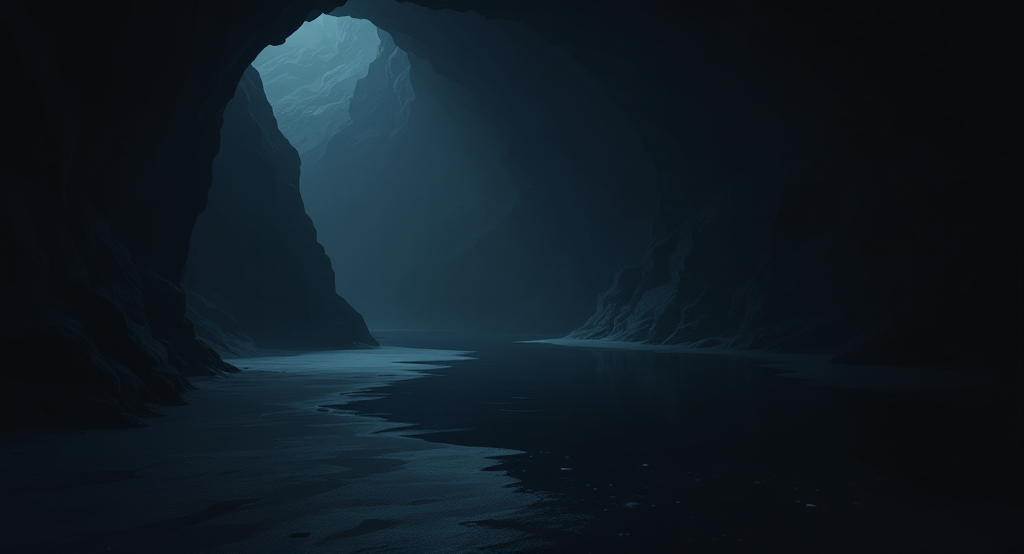
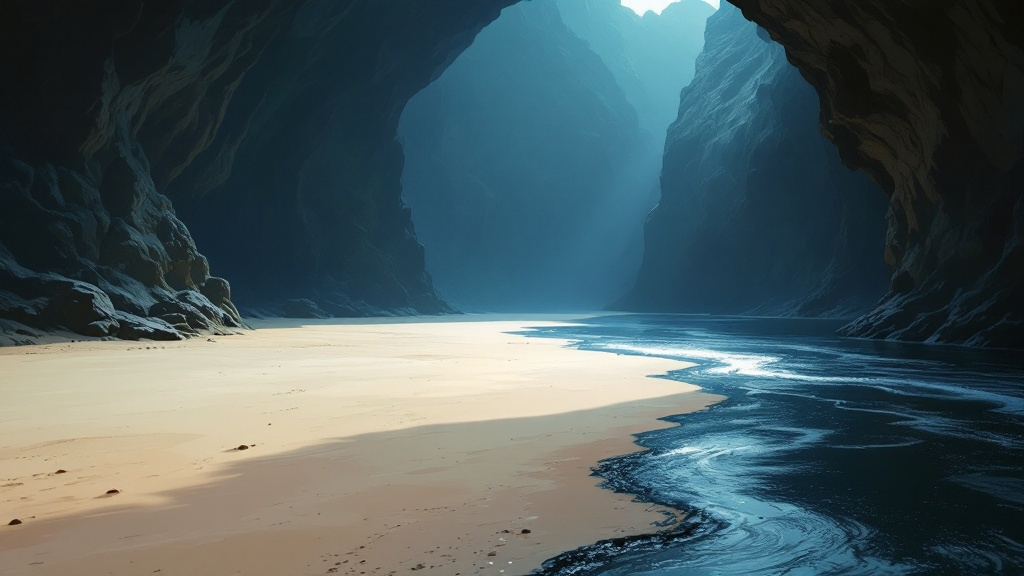
fix: Middle Beach repainted legible; room-art URLs versioned
Room 7 read as an empty black cavern — the beach and river were
technically present but crushed into darkness. Hand-shot with correct
geography (sand west toward the tunnel, swift river east running
south) and a readable phosphorescent center. Room background URLs now
carry ?a=2 so re-authored paintings bust the week-long media cache —
bump on future room-art revisions.

diff --git a/server/routes/game.js b/server/routes/game.js
@@ -977,7 +977,7 @@ function roomResponse({ adventure, run, character, text = null, prefix = null, e
     events,
     text: prefix ? `${prefix}\n\n${body}` : body,
     choices: choicesForRun(adventure, run, character),
-    state: { phase: 'adventure', locationTitle: room?.name ?? adventure?.adventure?.name ?? 'Adventure', background: `scenes/${adventure?.adventure?.id}/room-${room?.room_number}.png`, character, adventureRun: run, room, entities, items: withReadState(items, run), combat: combatStateFor({ adventure, run, character }), map: mapFor(adventure, run, character) },
+    state: { phase: 'adventure', locationTitle: room?.name ?? adventure?.adventure?.name ?? 'Adventure', background: `scenes/${adventure?.adventure?.id}/room-${room?.room_number}.png?a=2`, character, adventureRun: run, room, entities, items: withReadState(items, run), combat: combatStateFor({ adventure, run, character }), map: mapFor(adventure, run, character) },
   });
 }
 
